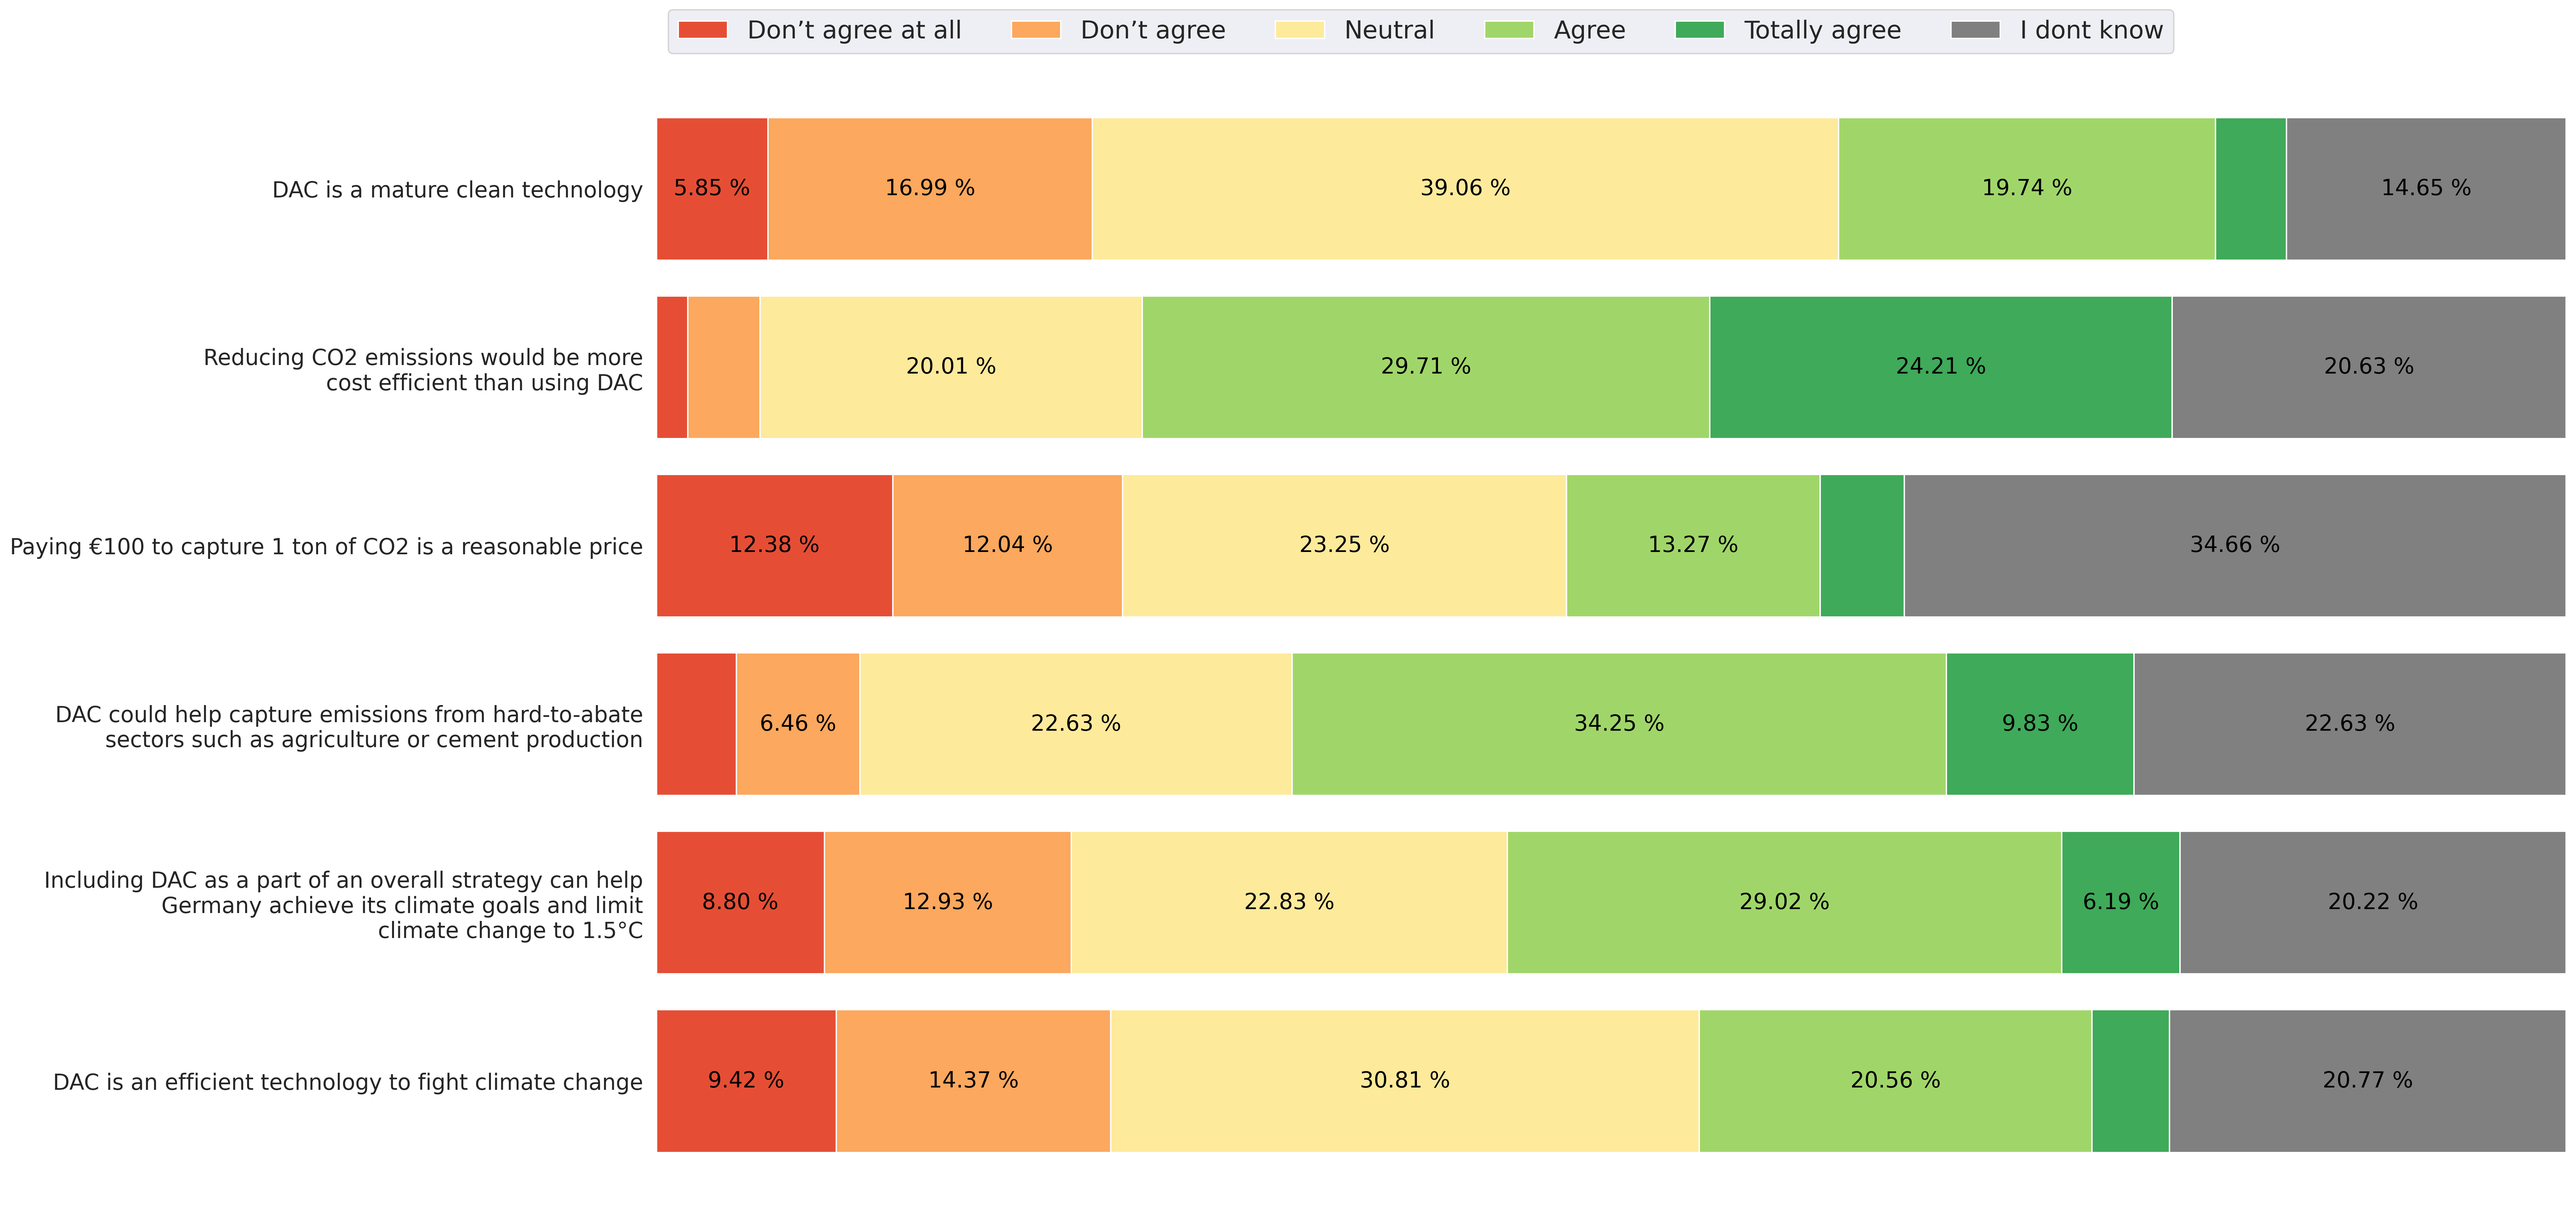
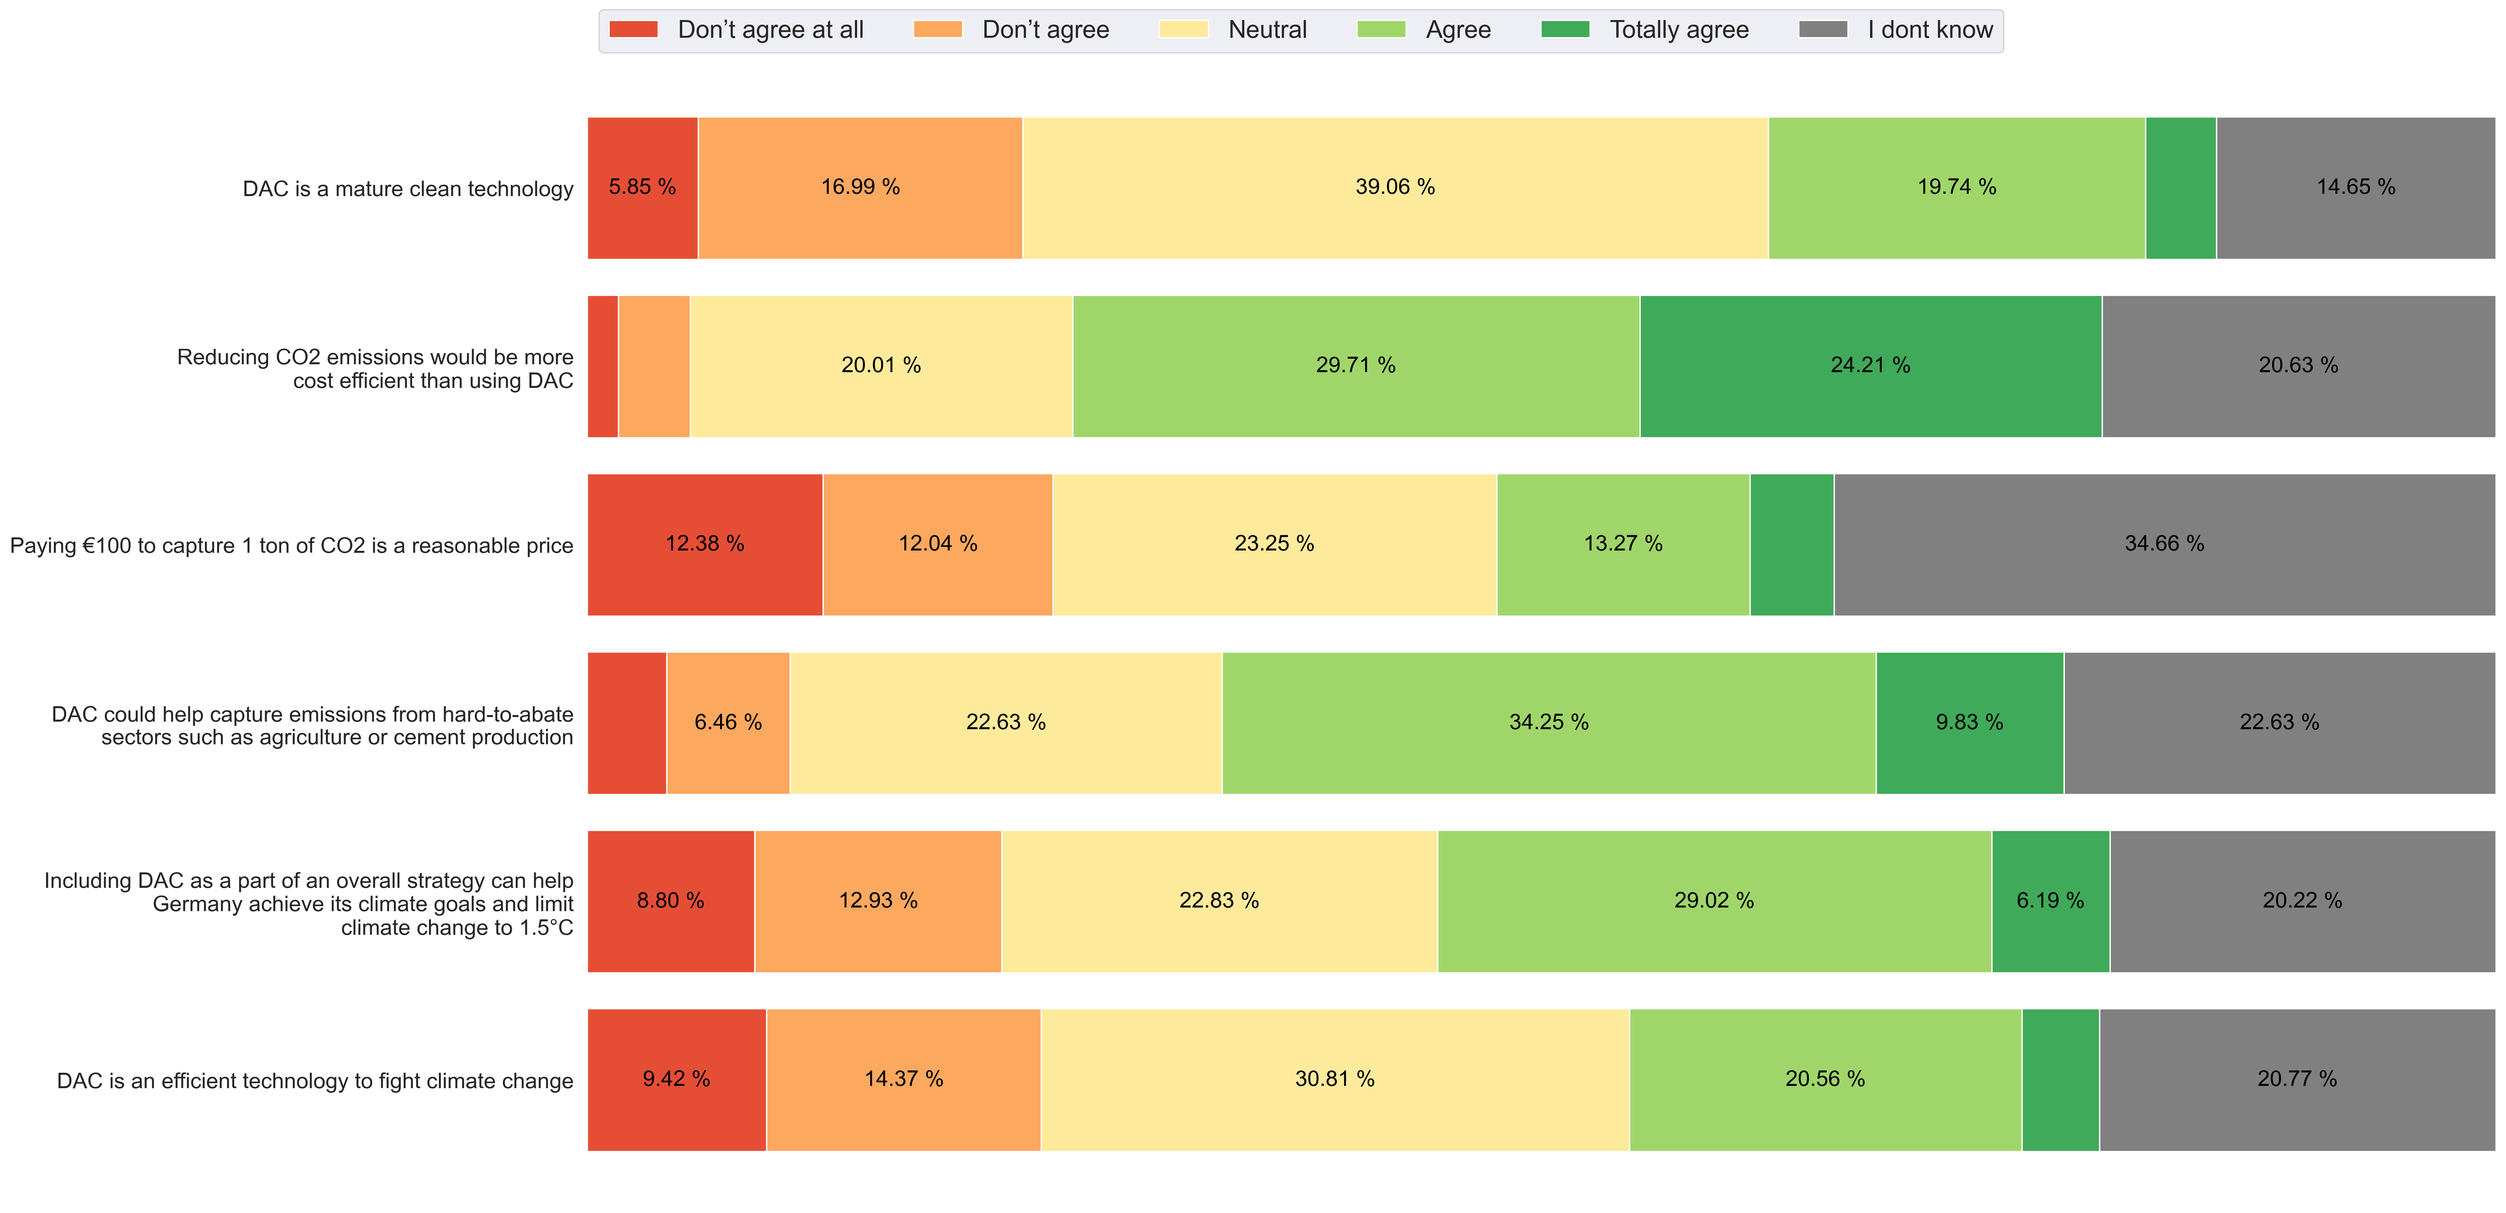
fix cmap

diff --git a/scripts/create-plots.py b/scripts/create-plots.py
@@ -118,7 +118,12 @@ def plot_support(df, fname):
 
 def plot_climate_change(df, fname):
     create_likert_plot(
-        df, fname, "Climate Change", scale="agreement_en", colors=colors, dpi=dpi
+        df,
+        fname,
+        "Climate Change",
+        scale="agreement_en",
+        colors=agreement_cmap,
+        dpi=dpi,
     )
 
 
@@ -131,7 +136,7 @@ def plot_tampering(df, fname):
         fname,
         "Tampering",
         scale="agreement_en",
-        colors=colors,
+        colors=agreement_cmap,
         dpi=dpi,
         labels=labels,
     )
@@ -142,12 +147,20 @@ def plot_trust(df, fname):
         "Environmental Protection Organizations and NGOs": "Environmental Protection\n Organizations and NGOs"
     }
     create_likert_plot(
-        df, fname, "Trust", scale="trust_en", colors=colors, dpi=dpi, labels=labels
+        df,
+        fname,
+        "Trust",
+        scale="trust_en",
+        colors=agreement_cmap,
+        dpi=dpi,
+        labels=labels,
     )
 
 
 def plot_risk(df, fname):
-    create_likert_plot(df, fname, "Risk", scale="agreement_en", colors=colors, dpi=dpi)
+    create_likert_plot(
+        df, fname, "Risk", scale="agreement_en", colors=agreement_cmap, dpi=dpi
+    )
 
 
 def plot_aux(df, fname):
